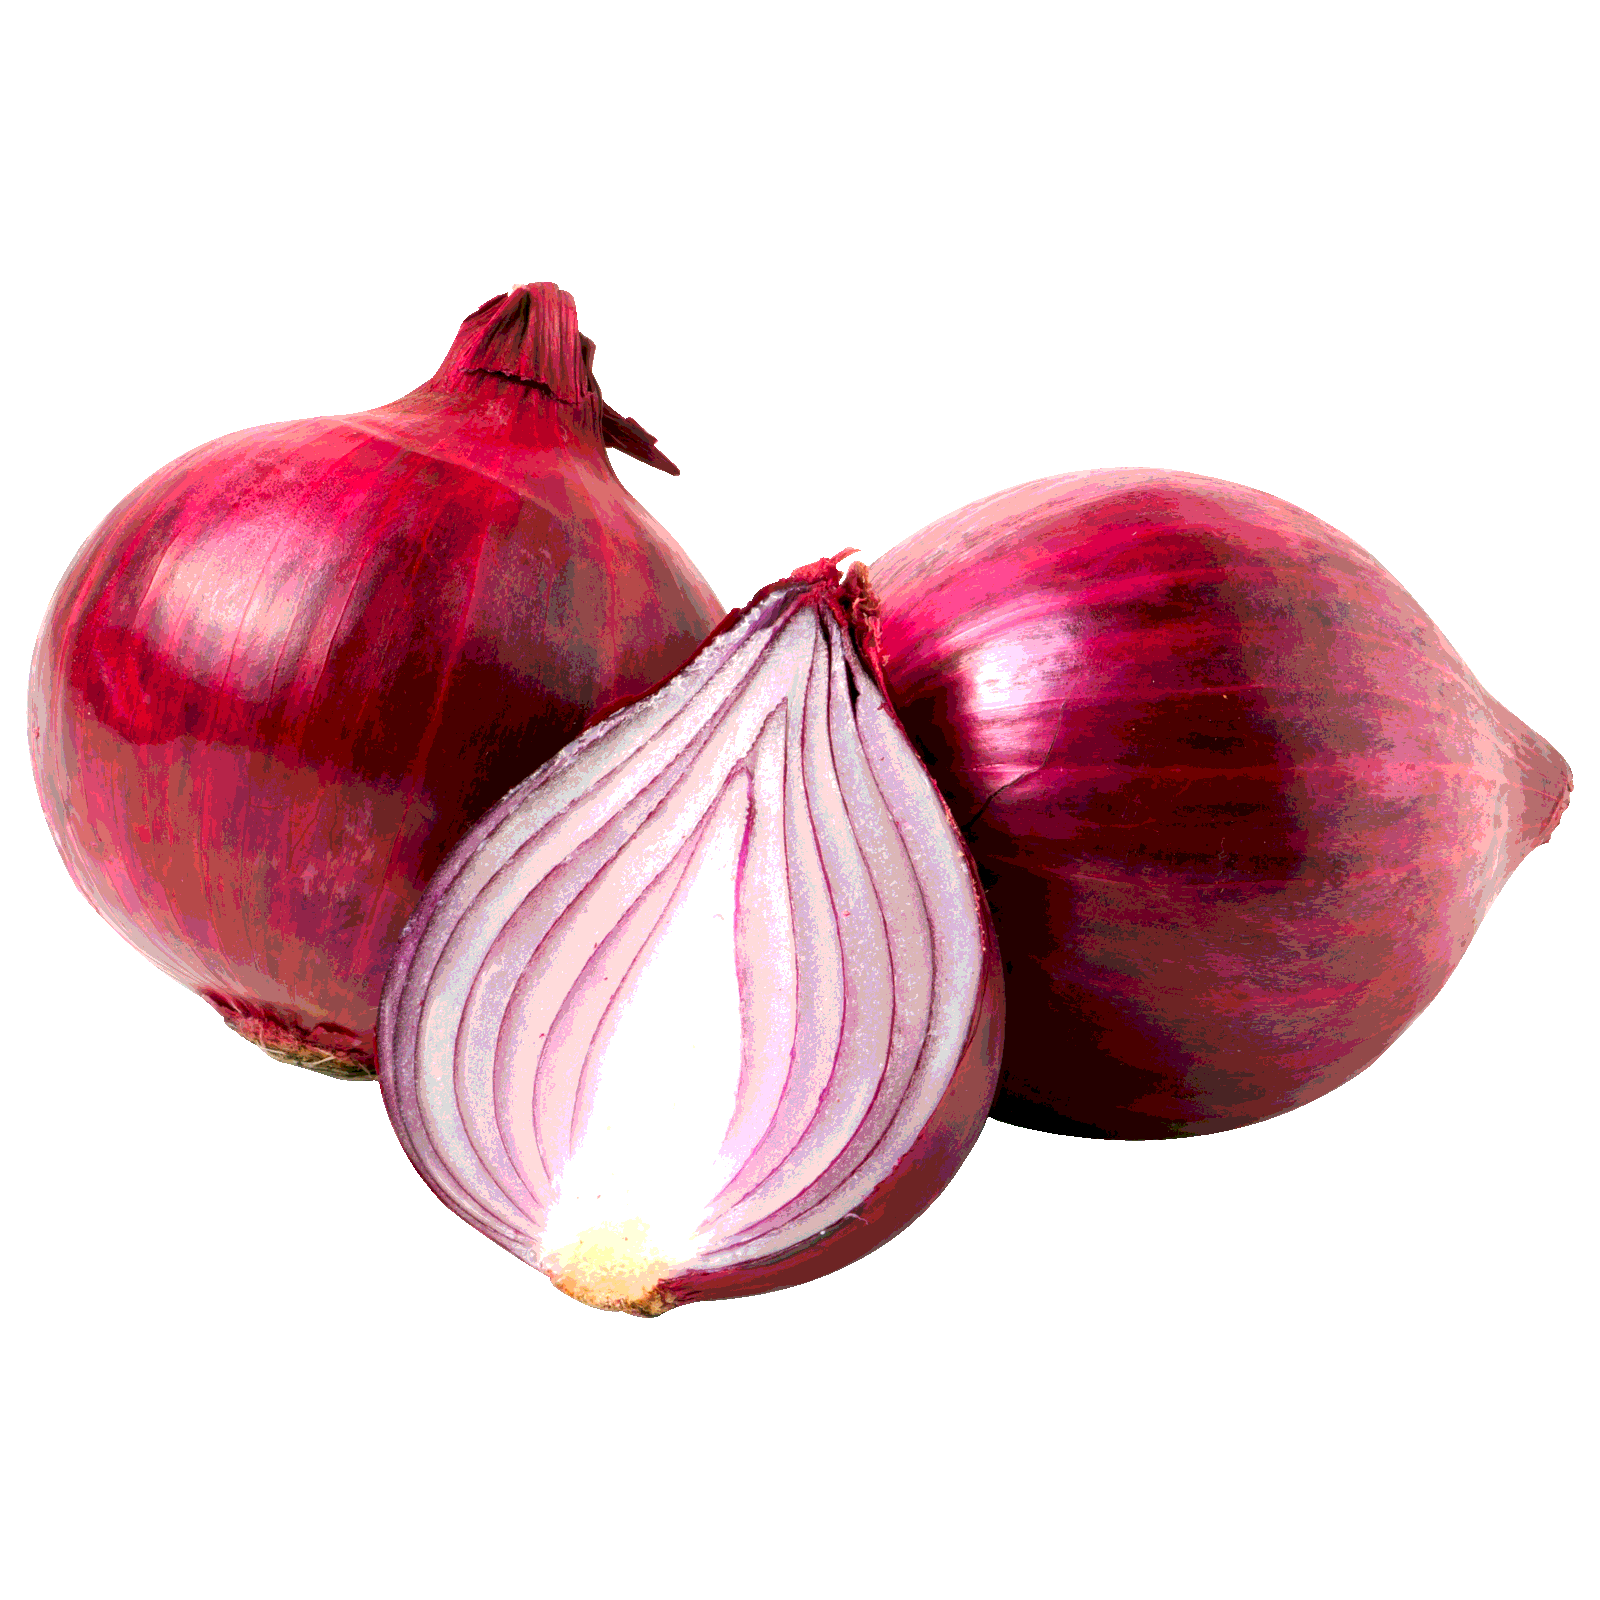
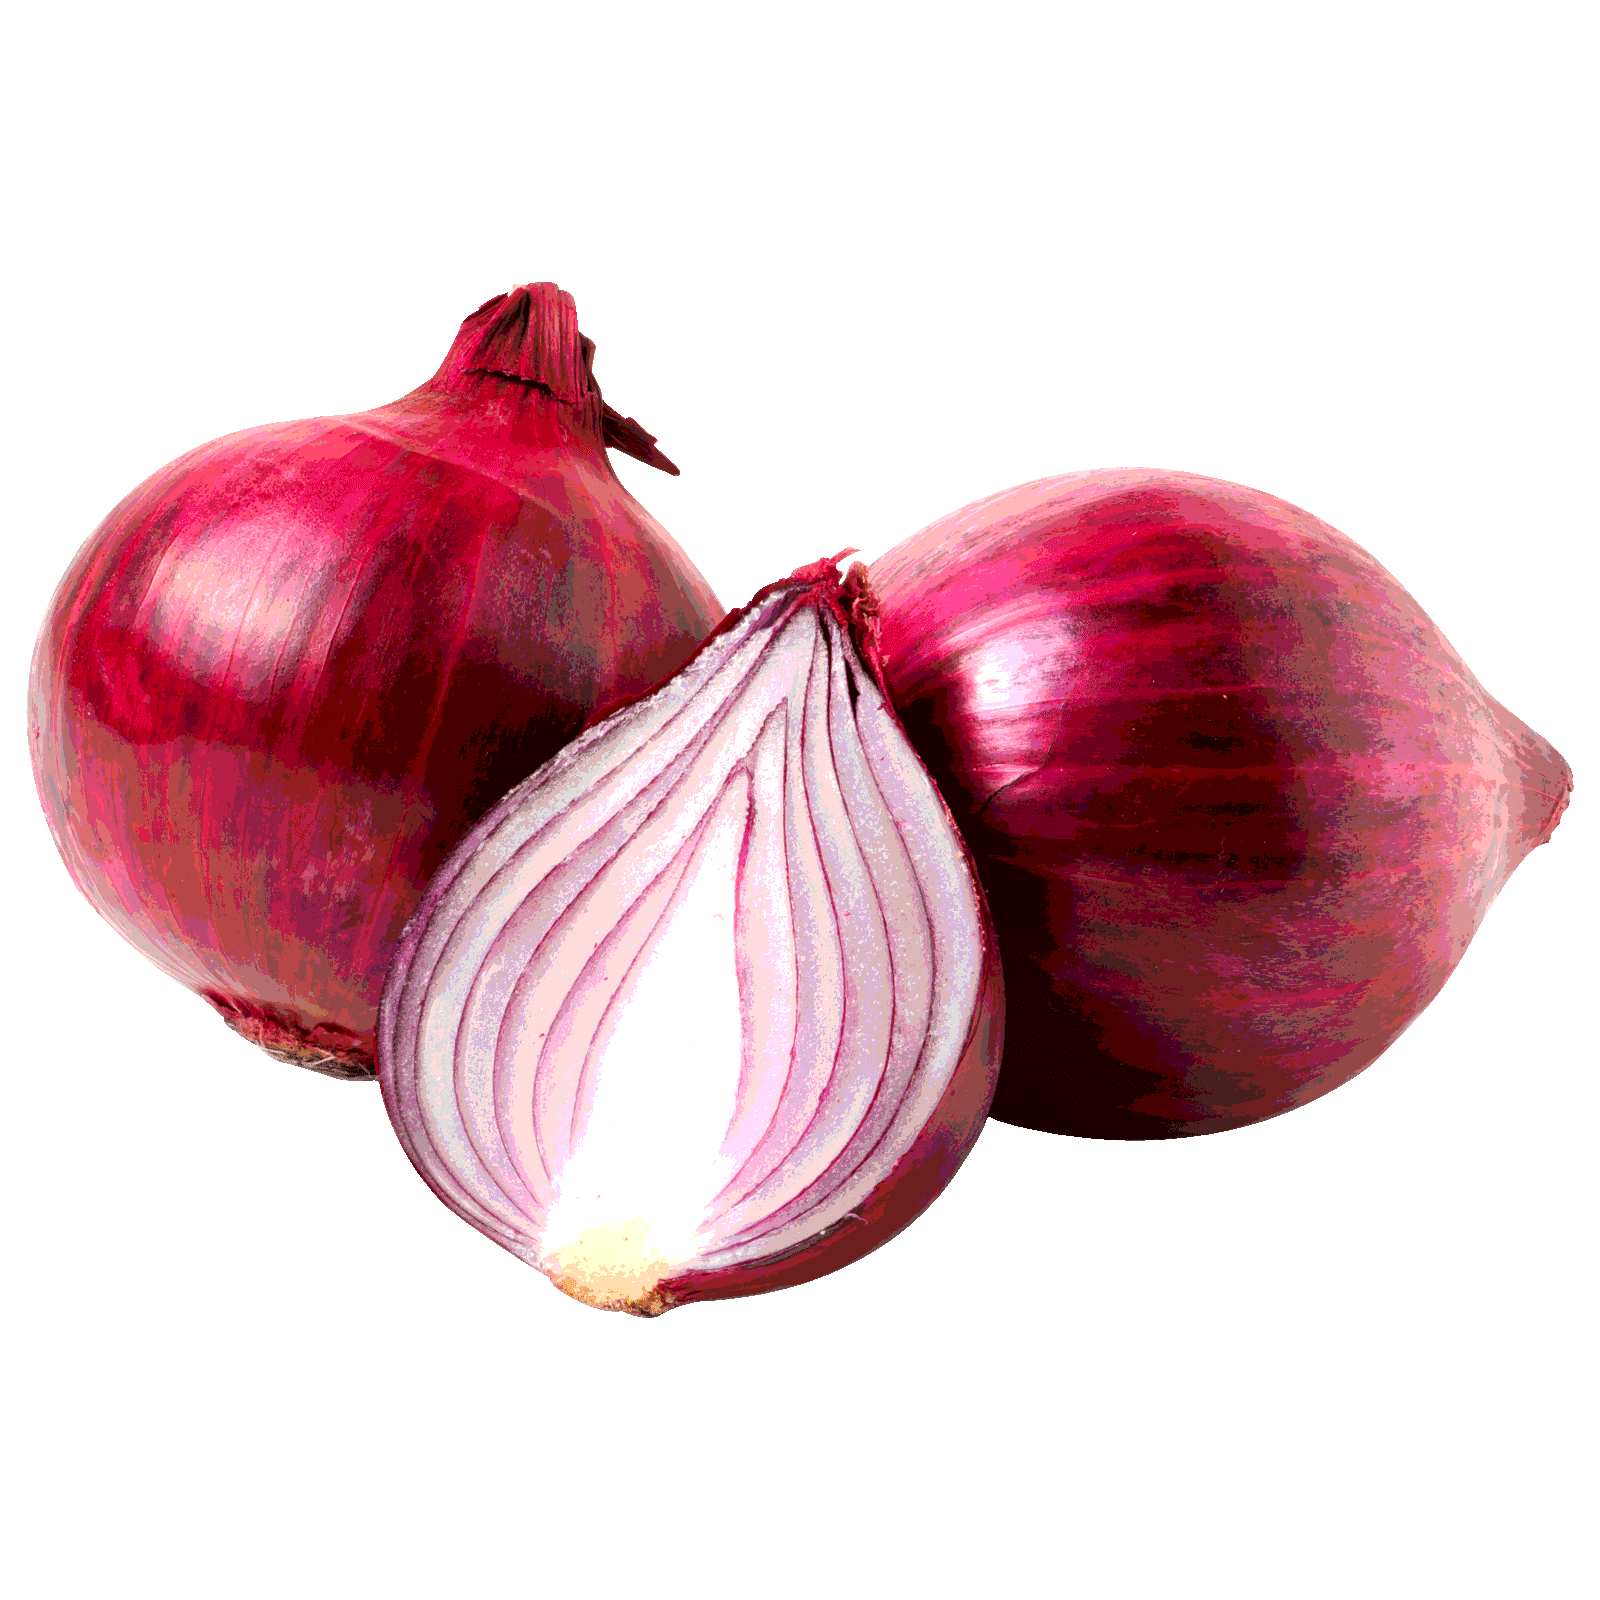
Optimize images

diff --git a/src/Components/ProductList/Productlist.js b/src/Components/ProductList/Productlist.js
@@ -1,15 +1,15 @@
 import Strawberry from '../../assets/strawberry.png';
-import Butter from '../../assets/butter.png';
+import Butter from '../../assets/butter.webp';
 import Eggs from '../../assets/eggs.png';
-import Cabbage from '../../assets/cabbage.png';
+import Cabbage from '../../assets/cabbage.webp';
 import Eggplant from '../../assets/eggplant.png';
-import Shrimp from '../../assets/shrimp.png';
-import Kiwi from '../../assets/kiwi.png';
-import Capsicum from '../../assets/capsicum.png';
-import Broccoli from '../../assets/broccoli.png';
+import Shrimp from '../../assets/shrimp.webp';
+import Kiwi from '../../assets/kiwi.webp';
+import Capsicum from '../../assets/capsicum.webp';
+import Broccoli from '../../assets/broccoli.webp';
 import Yogurt from '../../assets/yogurt.png';
 import Beef from '../../assets/beef.png';
-import ChickenBreast from '../../assets/chicken-breast.png';
+import ChickenBreast from '../../assets/chicken-breast.webp';
 import Kale from '../../assets/kale.png';
 import Cheese from '../../assets/mozzarella-cheese.png';
 import CondensedMilk from '../../assets/condensed-milk.png';
@@ -20,7 +20,7 @@ import Pineapple from '../../assets/pineapple.png';
 import Tofu from '../../assets/tofu.png';
 import Tilapia from '../../assets/tilapia.png';
 import SliceCheese from '../../assets/slice-cheese.png';
-import RicottaCheese from '../../assets/ricotta-cheese.png';
+import RicottaCheese from '../../assets/ricotta-cheese.webp';
 import Grapes from '../../assets/grapes.png';
 import Lettuce from '../../assets/lettuce.png';
 import Apple from '../../assets/apple.png';
@@ -28,16 +28,16 @@ import Orange from '../../assets/orange.png';
 import Mango from '../../assets/mango.png';
 import Watermelon from '../../assets/watermelon.png';
 import Pear from '../../assets/pear.png';
-import Avocado from '../../assets/avocado.png';
+import Avocado from '../../assets/avocado.webp';
 import Potato from '../../assets/potato.png';
 import Onion from '../../assets/onion.png';
 import Tomato from '../../assets/tomato.png';
 import Cauliflower from '../../assets/cauliflower.png';
-import Corn from '../../assets/corn.png';
+import Corn from '../../assets/corn.webp';
 import ChocolateMilk from '../../assets/chocolate-milk.png';
 import TurkeyBreast from '../../assets/turkey-breast.png';
 import ChickenWings from '../../assets/chicken-wings.png';
-import Crab from '../../assets/crab.png';
+import Crab from '../../assets/crab.webp';
 
 const product = [
     {

diff --git a/src/Components/Testimonials/Testimonials.jsx b/src/Components/Testimonials/Testimonials.jsx
@@ -5,9 +5,9 @@ import 'swiper/css';
 import 'swiper/css/navigation';
 import Heading from '../Heading/Heading'
 import { IoIosArrowBack, IoIosArrowForward } from 'react-icons/io'
-import Customer1 from '../../assets/customer1.jpg'
+import Customer1 from '../../assets/customer1.webp'
 import Customer2 from '../../assets/customer2.jpg'
-import Customer3 from '../../assets/customer3.jpg'
+import Customer3 from '../../assets/customer3.webp'
 import Customer4 from '../../assets/customer4.jpg'
 import Customer5 from '../../assets/customer5.jpg'
 import { FaStar } from 'react-icons/fa';

diff --git a/src/Components/Values/Values.jsx b/src/Components/Values/Values.jsx
@@ -1,7 +1,7 @@
 import React from 'react'
 import Heading from '../Heading/Heading'
 import { FaHeart, FaLeaf, FaSeedling, FaShieldAlt } from 'react-icons/fa'
-import Basket from '../../assets/basket-full-vegetables.png'
+import Basket from '../../assets/basket-full-vegetables.webp'
 
 const Values = () => {
 

diff --git a/vite.config.js b/vite.config.js
@@ -5,5 +5,5 @@ import tailwindcss from '@tailwindcss/vite'
 // https://vite.dev/config/
 export default defineConfig({
   plugins: [react(), tailwindcss()],
-  base: process.env.VITE_BASE_PATH || "/GROCIVA",
+  base: process.env.VITE_BASE_PATH || "/",
 })
